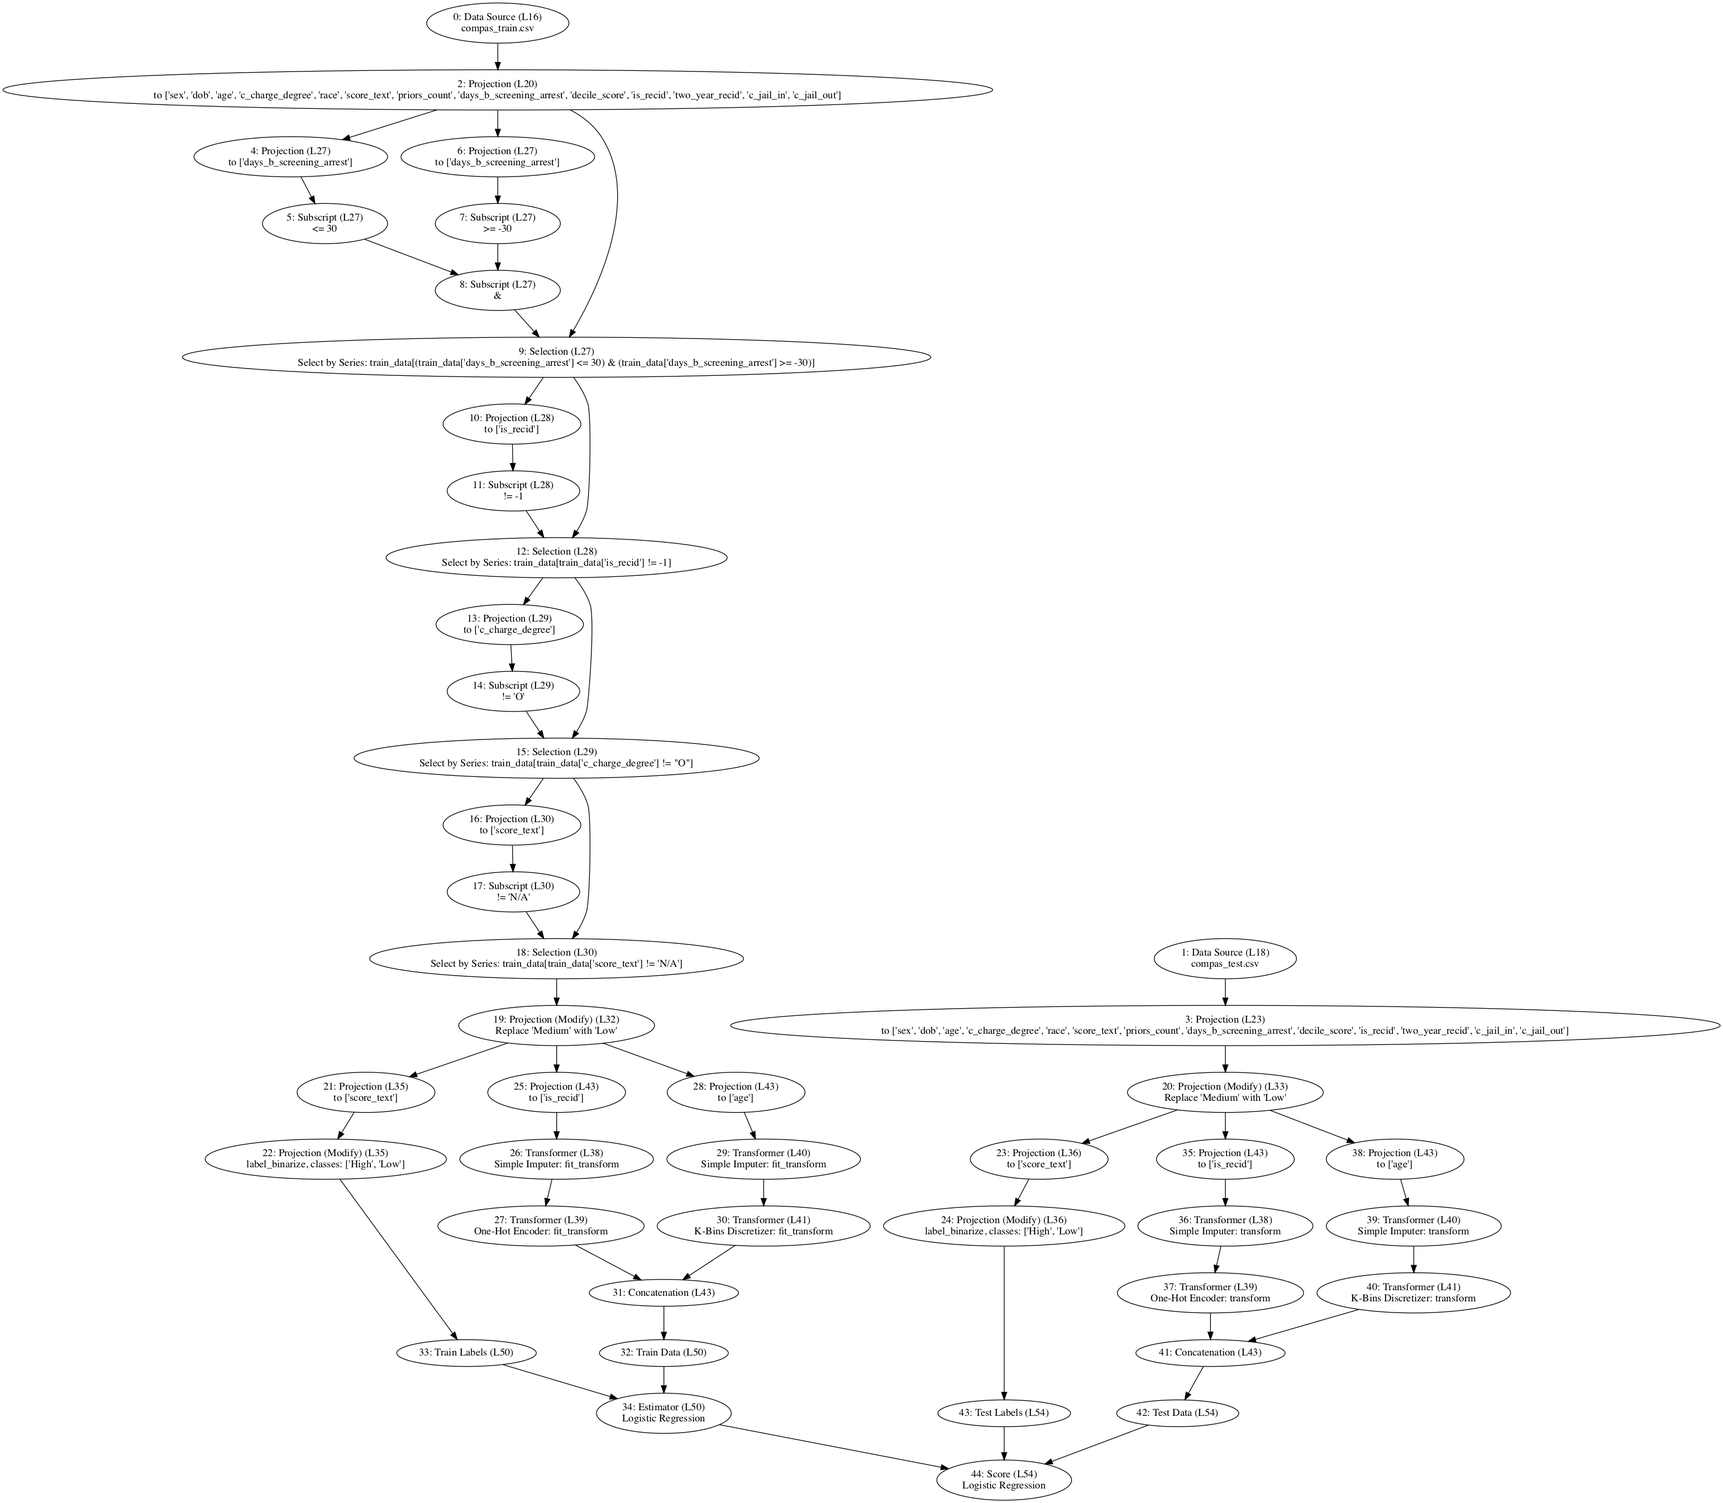
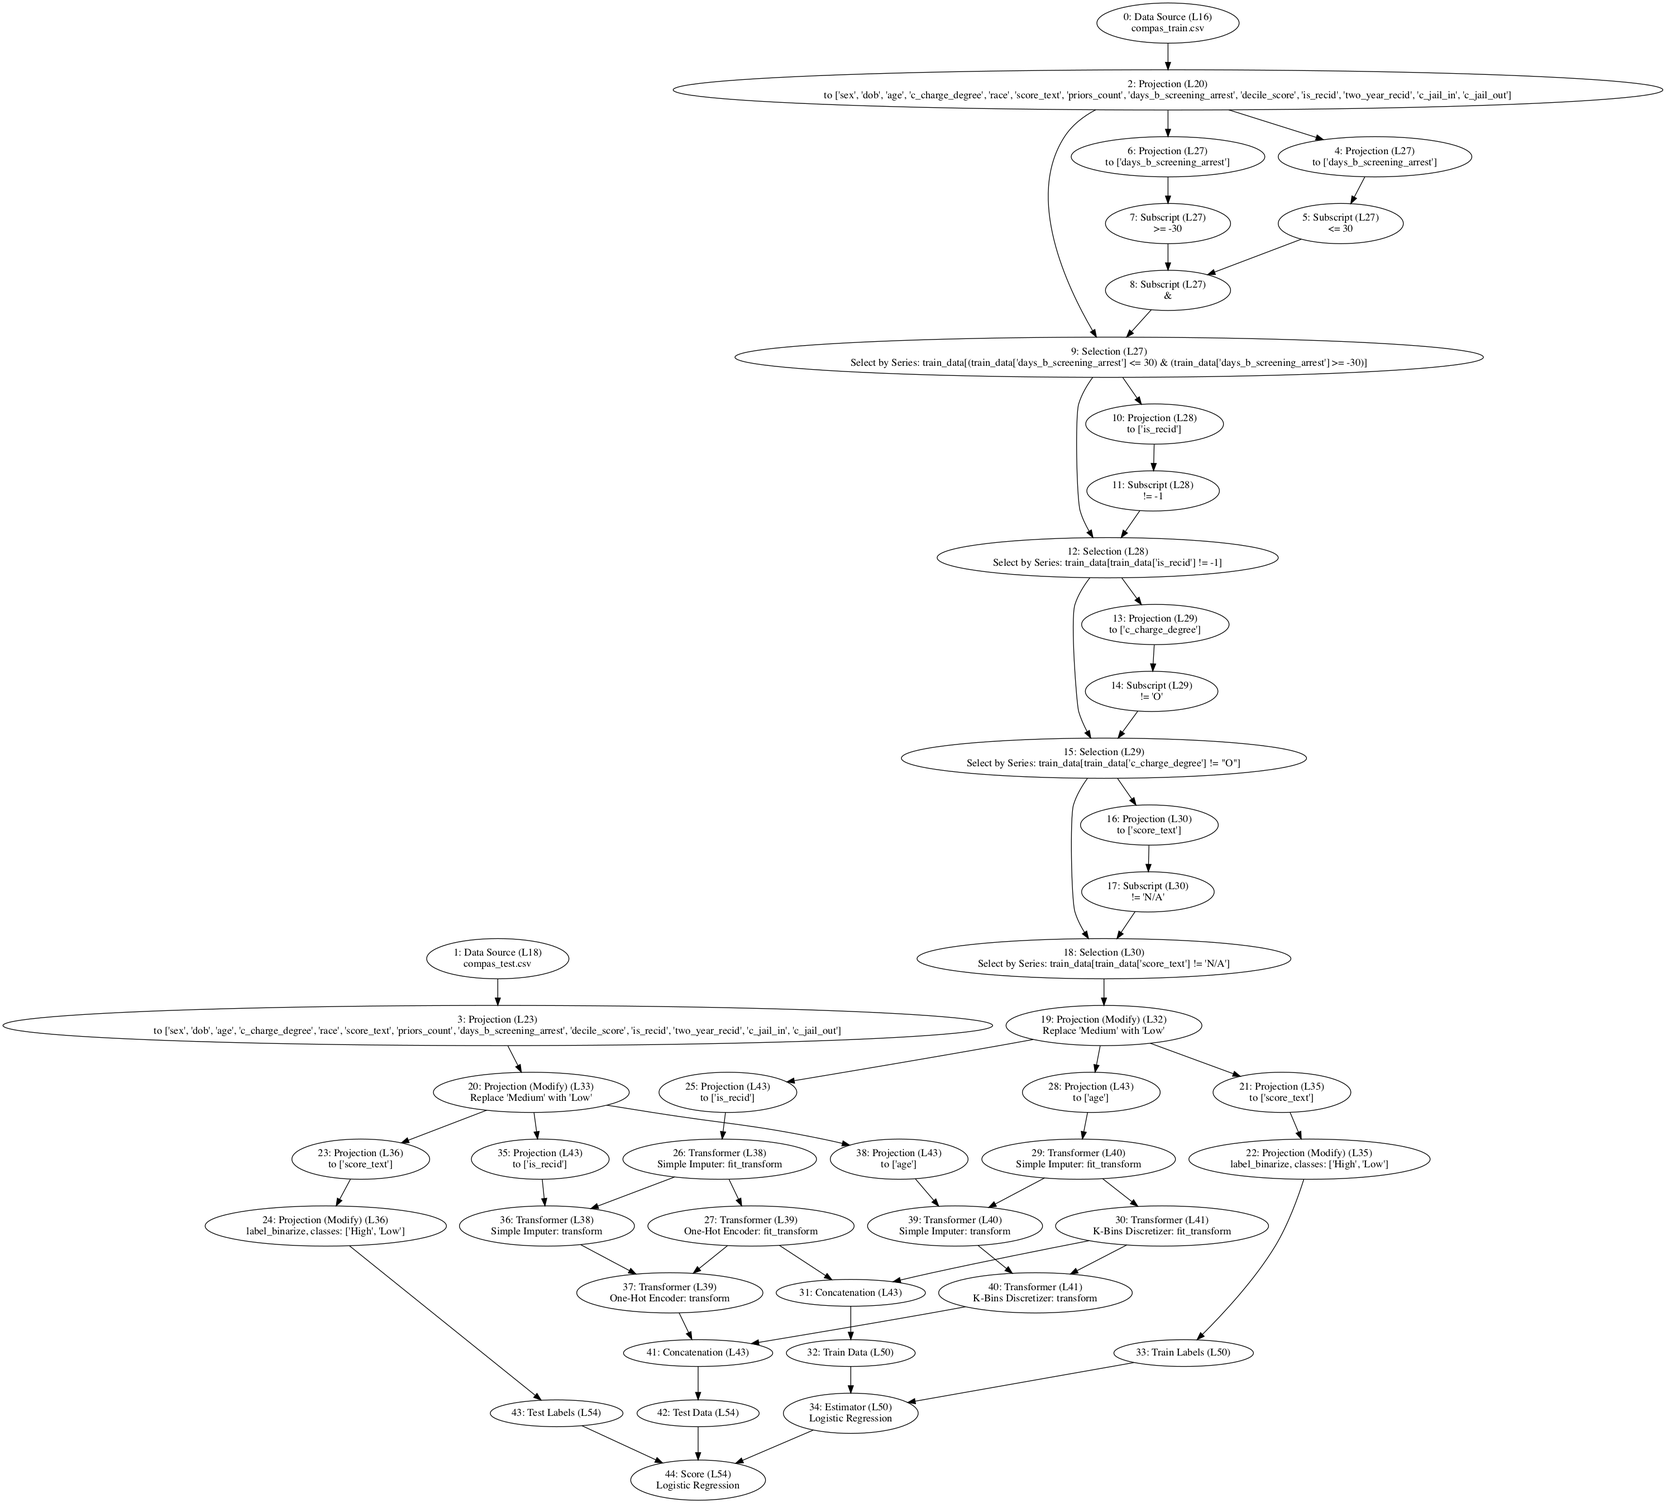
Updated all transformers

diff --git a/mlwhatif/monkeypatching/_patch_sklearn.py b/mlwhatif/monkeypatching/_patch_sklearn.py
@@ -347,7 +347,7 @@ class SklearnHasingVectorizerPatching:
                         binary=False, norm='l2', alternate_sign=True, dtype=numpy.float64,
                         mlinspect_caller_filename=None, mlinspect_lineno=None,
                         mlinspect_optional_code_reference=None, mlinspect_optional_source_code=None,
-                        mlinspect_fit_transform_active=False):
+                        mlinspect_fit_transform_active=False, mlinspect_transformer_node_id=None):
         """ Patch for ('sklearn.feature_extraction.text', 'HashingVectorizer') """
         # pylint: disable=no-method-argument, attribute-defined-outside-init
         original = gorilla.get_original_attribute(text.HashingVectorizer, '__init__')
@@ -357,6 +357,7 @@ class SklearnHasingVectorizerPatching:
         self.mlinspect_optional_code_reference = mlinspect_optional_code_reference
         self.mlinspect_optional_source_code = mlinspect_optional_source_code
         self.mlinspect_fit_transform_active = mlinspect_fit_transform_active
+        self.mlinspect_transformer_node_id = mlinspect_transformer_node_id
 
         self.mlinspect_non_data_func_args = {'input': input, 'encoding': encoding, 'decode_error': decode_error,
                                              'strip_accents': strip_accents, 'lowercase': lowercase,
@@ -390,7 +391,9 @@ class SklearnHasingVectorizerPatching:
 
         operator_context = OperatorContext(OperatorType.TRANSFORMER, function_info)
         result = original(self, input_info.annotated_dfobject.result_data, *args[1:], **kwargs)
-        dag_node = DagNode(singleton.get_next_op_id(),
+        dag_node_id = singleton.get_next_op_id()
+        self.mlinspect_transformer_node_id = dag_node_id  # pylint: disable=attribute-defined-outside-init
+        dag_node = DagNode(dag_node_id,
                            BasicCodeLocation(self.mlinspect_caller_filename, self.mlinspect_lineno),
                            operator_context,
                            DagNodeDetails("Hashing Vectorizer: fit_transform", ['array']),
@@ -422,7 +425,8 @@ class SklearnHasingVectorizerPatching:
                                get_optional_code_info_or_none(self.mlinspect_optional_code_reference,
                                                               self.mlinspect_optional_source_code))
             function_call_result = FunctionCallResult(result)
-            add_dag_node(dag_node, [input_info.dag_node], function_call_result)
+            transformer_dag_node = get_dag_node_for_id(self.mlinspect_transformer_node_id)
+            add_dag_node(dag_node, [transformer_dag_node, input_info.dag_node], function_call_result)
             new_result = function_call_result.function_result
         else:
             new_result = original(self, *args, **kwargs)
@@ -440,7 +444,7 @@ class SklearnKBinsDiscretizerPatching:
     def patched__init__(self, n_bins=5, *, encode='onehot', strategy='quantile',
                         mlinspect_caller_filename=None, mlinspect_lineno=None,
                         mlinspect_optional_code_reference=None, mlinspect_optional_source_code=None,
-                        mlinspect_fit_transform_active=False):
+                        mlinspect_fit_transform_active=False, mlinspect_transformer_node_id=None):
         """ Patch for ('sklearn.preprocessing._discretization', 'KBinsDiscretizer') """
         # pylint: disable=no-method-argument, attribute-defined-outside-init
         original = gorilla.get_original_attribute(preprocessing.KBinsDiscretizer, '__init__')
@@ -450,6 +454,7 @@ class SklearnKBinsDiscretizerPatching:
         self.mlinspect_optional_code_reference = mlinspect_optional_code_reference
         self.mlinspect_optional_source_code = mlinspect_optional_source_code
         self.mlinspect_fit_transform_active = mlinspect_fit_transform_active
+        self.mlinspect_transformer_node_id = mlinspect_transformer_node_id
 
         self.mlinspect_non_data_func_args = {'n_bins': n_bins, 'encode': encode, 'strategy': strategy}
 
@@ -477,7 +482,9 @@ class SklearnKBinsDiscretizerPatching:
 
         operator_context = OperatorContext(OperatorType.TRANSFORMER, function_info)
         result = original(self, input_info.annotated_dfobject.result_data, *args[1:], **kwargs)
-        dag_node = DagNode(singleton.get_next_op_id(),
+        dag_node_id = singleton.get_next_op_id()
+        self.mlinspect_transformer_node_id = dag_node_id  # pylint: disable=attribute-defined-outside-init
+        dag_node = DagNode(dag_node_id,
                            BasicCodeLocation(self.mlinspect_caller_filename, self.mlinspect_lineno),
                            operator_context,
                            DagNodeDetails("K-Bins Discretizer: fit_transform", ['array']),
@@ -510,7 +517,8 @@ class SklearnKBinsDiscretizerPatching:
                                get_optional_code_info_or_none(self.mlinspect_optional_code_reference,
                                                               self.mlinspect_optional_source_code))
             function_call_result = FunctionCallResult(result)
-            add_dag_node(dag_node, [input_info.dag_node], function_call_result)
+            transformer_dag_node = get_dag_node_for_id(self.mlinspect_transformer_node_id)
+            add_dag_node(dag_node, [transformer_dag_node, input_info.dag_node], function_call_result)
             new_result = function_call_result.function_result
             assert isinstance(new_result, MlinspectNdarray)
         else:
@@ -530,7 +538,7 @@ class SklearnOneHotEncoderPatching:
                         dtype=numpy.float64, handle_unknown='error',
                         mlinspect_caller_filename=None, mlinspect_lineno=None,
                         mlinspect_optional_code_reference=None, mlinspect_optional_source_code=None,
-                        mlinspect_fit_transform_active=False):
+                        mlinspect_fit_transform_active=False, mlinspect_transformer_node_id=None):
         """ Patch for ('sklearn.preprocessing._encoders', 'OneHotEncoder') """
         # pylint: disable=no-method-argument, attribute-defined-outside-init
         original = gorilla.get_original_attribute(preprocessing.OneHotEncoder, '__init__')
@@ -540,6 +548,7 @@ class SklearnOneHotEncoderPatching:
         self.mlinspect_optional_code_reference = mlinspect_optional_code_reference
         self.mlinspect_optional_source_code = mlinspect_optional_source_code
         self.mlinspect_fit_transform_active = mlinspect_fit_transform_active
+        self.mlinspect_transformer_node_id = mlinspect_transformer_node_id
 
         self.mlinspect_non_data_func_args = {'categories': categories, 'drop': drop, 'sparse': sparse, 'dtype': dtype,
                                              'handle_unknown': handle_unknown}
@@ -568,7 +577,9 @@ class SklearnOneHotEncoderPatching:
 
         operator_context = OperatorContext(OperatorType.TRANSFORMER, function_info)
         result = original(self, input_info.annotated_dfobject.result_data, *args[1:], **kwargs)
-        dag_node = DagNode(singleton.get_next_op_id(),
+        dag_node_id = singleton.get_next_op_id()
+        self.mlinspect_transformer_node_id = dag_node_id  # pylint: disable=attribute-defined-outside-init
+        dag_node = DagNode(dag_node_id,
                            BasicCodeLocation(self.mlinspect_caller_filename, self.mlinspect_lineno),
                            operator_context,
                            DagNodeDetails("One-Hot Encoder: fit_transform", ['array']),
@@ -600,7 +611,8 @@ class SklearnOneHotEncoderPatching:
                                get_optional_code_info_or_none(self.mlinspect_optional_code_reference,
                                                               self.mlinspect_optional_source_code))
             function_call_result = FunctionCallResult(result)
-            add_dag_node(dag_node, [input_info.dag_node], function_call_result)
+            transformer_dag_node = get_dag_node_for_id(self.mlinspect_transformer_node_id)
+            add_dag_node(dag_node, [transformer_dag_node, input_info.dag_node], function_call_result)
             new_result = function_call_result.function_result
         else:
             new_result = original(self, *args, **kwargs)
@@ -619,7 +631,7 @@ class SklearnSimpleImputerPatching:
                         fill_value=None, verbose=0, copy=True, add_indicator=False,
                         mlinspect_caller_filename=None, mlinspect_lineno=None,
                         mlinspect_optional_code_reference=None, mlinspect_optional_source_code=None,
-                        mlinspect_fit_transform_active=False):
+                        mlinspect_fit_transform_active=False, mlinspect_transformer_node_id=None):
         """ Patch for ('sklearn.impute._base', 'SimpleImputer') """
         # pylint: disable=no-method-argument, attribute-defined-outside-init
         original = gorilla.get_original_attribute(impute.SimpleImputer, '__init__')
@@ -629,6 +641,7 @@ class SklearnSimpleImputerPatching:
         self.mlinspect_optional_code_reference = mlinspect_optional_code_reference
         self.mlinspect_optional_source_code = mlinspect_optional_source_code
         self.mlinspect_fit_transform_active = mlinspect_fit_transform_active
+        self.mlinspect_transformer_node_id = mlinspect_transformer_node_id
 
         self.mlinspect_non_data_func_args = {'missing_values': missing_values, 'strategy': strategy,
                                              'fill_value': fill_value, 'verbose': verbose, 'copy': copy,
@@ -663,7 +676,9 @@ class SklearnSimpleImputerPatching:
         else:
             columns = ['array']
 
-        dag_node = DagNode(singleton.get_next_op_id(),
+        dag_node_id = singleton.get_next_op_id()
+        self.mlinspect_transformer_node_id = dag_node_id  # pylint: disable=attribute-defined-outside-init
+        dag_node = DagNode(dag_node_id,
                            BasicCodeLocation(self.mlinspect_caller_filename, self.mlinspect_lineno),
                            operator_context,
                            DagNodeDetails("Simple Imputer: fit_transform", columns),
@@ -700,7 +715,8 @@ class SklearnSimpleImputerPatching:
                                get_optional_code_info_or_none(self.mlinspect_optional_code_reference,
                                                               self.mlinspect_optional_source_code))
             function_call_result = FunctionCallResult(result)
-            add_dag_node(dag_node, [input_info.dag_node], function_call_result)
+            transformer_dag_node = get_dag_node_for_id(self.mlinspect_transformer_node_id)
+            add_dag_node(dag_node, [transformer_dag_node, input_info.dag_node], function_call_result)
             new_result = function_call_result.function_result
         else:
             new_result = original(self, *args, **kwargs)
@@ -718,9 +734,9 @@ class SklearnFunctionTransformerPatching:
     def patched__init__(self, func=None, inverse_func=None, *, validate=False, accept_sparse=False, check_inverse=True,
                         kw_args=None, inv_kw_args=None, mlinspect_caller_filename=None, mlinspect_lineno=None,
                         mlinspect_optional_code_reference=None, mlinspect_optional_source_code=None,
-                        mlinspect_fit_transform_active=False):
+                        mlinspect_fit_transform_active=False, mlinspect_transformer_node_id=None):
         """ Patch for ('sklearn.preprocessing_function_transformer', 'FunctionTransformer') """
-        # pylint: disable=no-method-argument, attribute-defined-outside-init
+        # pylint: disable=no-method-argument, attribute-defined-outside-init, too-many-locals
         original = gorilla.get_original_attribute(preprocessing.FunctionTransformer, '__init__')
 
         self.mlinspect_caller_filename = mlinspect_caller_filename
@@ -728,6 +744,7 @@ class SklearnFunctionTransformerPatching:
         self.mlinspect_optional_code_reference = mlinspect_optional_code_reference
         self.mlinspect_optional_source_code = mlinspect_optional_source_code
         self.mlinspect_fit_transform_active = mlinspect_fit_transform_active
+        self.mlinspect_transformer_node_id = mlinspect_transformer_node_id
 
         self.mlinspect_non_data_func_args = {'validate': validate, 'accept_sparse': accept_sparse,
                                              'check_inverse': check_inverse, 'kw_args': kw_args,
@@ -763,7 +780,9 @@ class SklearnFunctionTransformerPatching:
         else:
             columns = ['array']
 
-        dag_node = DagNode(singleton.get_next_op_id(),
+        dag_node_id = singleton.get_next_op_id()
+        self.mlinspect_transformer_node_id = dag_node_id  # pylint: disable=attribute-defined-outside-init
+        dag_node = DagNode(dag_node_id,
                            BasicCodeLocation(self.mlinspect_caller_filename, self.mlinspect_lineno),
                            operator_context,
                            DagNodeDetails("Function Transformer: fit_transform", columns),
@@ -800,7 +819,8 @@ class SklearnFunctionTransformerPatching:
                                get_optional_code_info_or_none(self.mlinspect_optional_code_reference,
                                                               self.mlinspect_optional_source_code))
             function_call_result = FunctionCallResult(result)
-            add_dag_node(dag_node, [input_info.dag_node], function_call_result)
+            transformer_dag_node = get_dag_node_for_id(self.mlinspect_transformer_node_id)
+            add_dag_node(dag_node, [transformer_dag_node, input_info.dag_node], function_call_result)
             new_result = function_call_result.function_result
         else:
             new_result = original(self, *args, **kwargs)

diff --git a/test/monkeypatching/test_patch_sklearn.py b/test/monkeypatching/test_patch_sklearn.py
@@ -203,7 +203,8 @@ def test_function_transformer():
                                        DagNodeDetails('Function Transformer: transform', ['A']),
                                        OptionalCodeInfo(CodeReference(9, 23, 9, 65),
                                                         'FunctionTransformer(lambda x: safe_log(x))'))
-    expected_dag.add_edge(expected_data_source_two, expected_transformer_two, arg_index=0)
+    expected_dag.add_edge(expected_transformer, expected_transformer_two, arg_index=0)
+    expected_dag.add_edge(expected_data_source_two, expected_transformer_two, arg_index=1)
     compare(networkx.to_dict_of_dicts(inspector_result.dag), networkx.to_dict_of_dicts(expected_dag))
 
 
@@ -259,7 +260,8 @@ def test_kbins_discretizer():
                                        OptionalCodeInfo(CodeReference(6, 14, 6, 78),
                                                         "KBinsDiscretizer(n_bins=3, encode='ordinal', "
                                                         "strategy='uniform')"))
-    expected_dag.add_edge(expected_data_source_two, expected_transformer_two, arg_index=0)
+    expected_dag.add_edge(expected_transformer, expected_transformer_two, arg_index=0)
+    expected_dag.add_edge(expected_data_source_two, expected_transformer_two, arg_index=1)
     compare(networkx.to_dict_of_dicts(inspector_result.dag), networkx.to_dict_of_dicts(expected_dag))
 
 
@@ -313,7 +315,8 @@ def test_simple_imputer():
                                        DagNodeDetails('Simple Imputer: transform', ['A']),
                                        OptionalCodeInfo(CodeReference(6, 10, 6, 72),
                                                         "SimpleImputer(missing_values=np.nan, strategy='most_frequent')"))
-    expected_dag.add_edge(expected_data_source_two, expected_transformer_two, arg_index=0)
+    expected_dag.add_edge(expected_transformer, expected_transformer_two, arg_index=0)
+    expected_dag.add_edge(expected_data_source_two, expected_transformer_two, arg_index=1)
     compare(networkx.to_dict_of_dicts(inspector_result.dag), networkx.to_dict_of_dicts(expected_dag))
 
 
@@ -367,7 +370,8 @@ def test_one_hot_encoder_not_sparse():
                                                                     'OneHotEncoder')),
                                        DagNodeDetails('One-Hot Encoder: transform', ['array']),
                                        OptionalCodeInfo(CodeReference(6, 18, 6, 45), 'OneHotEncoder(sparse=False)'))
-    expected_dag.add_edge(expected_data_source_two, expected_transformer_two, arg_index=0)
+    expected_dag.add_edge(expected_transformer, expected_transformer_two, arg_index=0)
+    expected_dag.add_edge(expected_data_source_two, expected_transformer_two, arg_index=1)
     compare(networkx.to_dict_of_dicts(inspector_result.dag), networkx.to_dict_of_dicts(expected_dag))
 
 
@@ -461,7 +465,8 @@ def test_hashing_vectorizer():
                                        DagNodeDetails('Hashing Vectorizer: transform', ['array']),
                                        OptionalCodeInfo(CodeReference(7, 13, 7, 67),
                                                         'HashingVectorizer(ngram_range=(1, 3), n_features=2**2)'))
-    expected_dag.add_edge(expected_data_source_two, expected_transformer_two, arg_index=0)
+    expected_dag.add_edge(expected_transformer, expected_transformer_two, arg_index=0)
+    expected_dag.add_edge(expected_data_source_two, expected_transformer_two, arg_index=1)
     compare(networkx.to_dict_of_dicts(inspector_result.dag), networkx.to_dict_of_dicts(expected_dag))
 
 
@@ -588,7 +593,7 @@ def test_column_transformer_one_transformer_single_column_projection():
                                  DagNodeDetails('Hashing Vectorizer: transform', ['array']),
                                  OptionalCodeInfo(CodeReference(9, 16, 9, 70), 'HashingVectorizer(ngram_range=(1, 3), '
                                                                                 'n_features=2**2)'))
-    expected_dag.add_node(expected_transform)
+    expected_dag.add_edge(expected_vectorizer, expected_transform, arg_index=0)
 
     compare(networkx.to_dict_of_dicts(inspector_result.dag), networkx.to_dict_of_dicts(expected_dag))
 
@@ -834,7 +839,7 @@ def test_column_transformer_transform_after_fit_transform():
                                                FunctionInfo('sklearn.preprocessing._encoders', 'OneHotEncoder')),
                                DagNodeDetails('One-Hot Encoder: transform', ['array']),
                                OptionalCodeInfo(CodeReference(10, 20, 10, 46), 'OneHotEncoder(sparse=True)'))
-    expected_dag.add_edge(expected_projection_2, expected_one_hot, arg_index=0)
+    expected_dag.add_edge(expected_projection_2, expected_one_hot, arg_index=1)
     expected_concat = DagNode(11,
                               BasicCodeLocation("<string-source>", 8),
                               OperatorContext(OperatorType.CONCATENATION,
